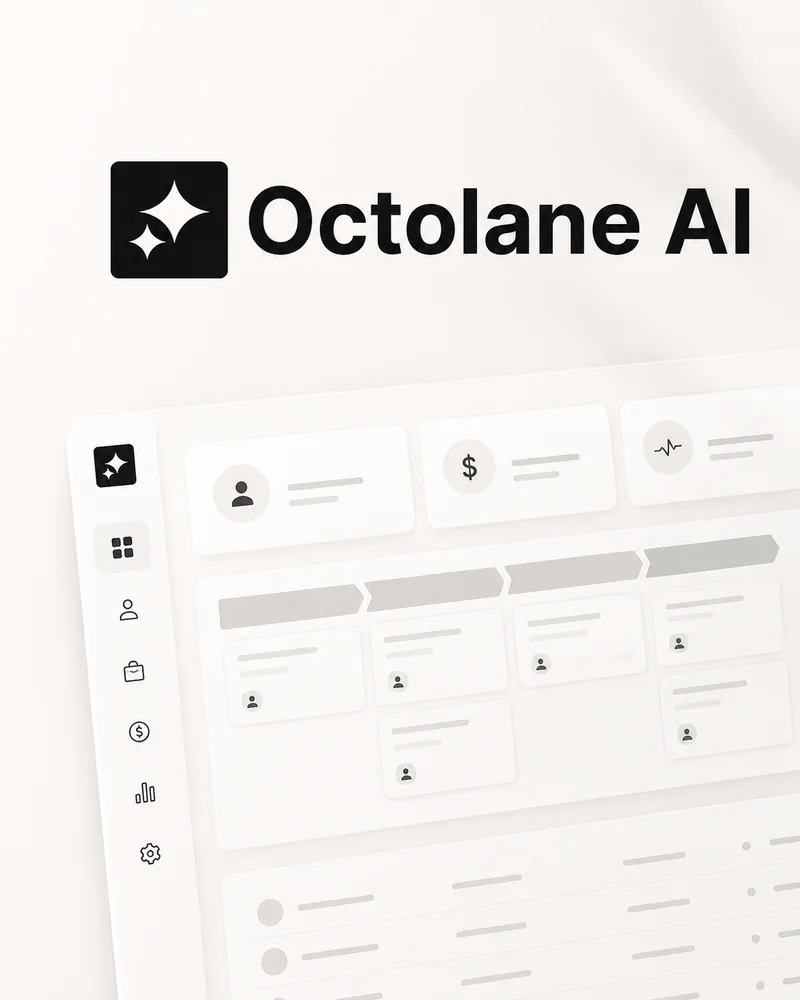
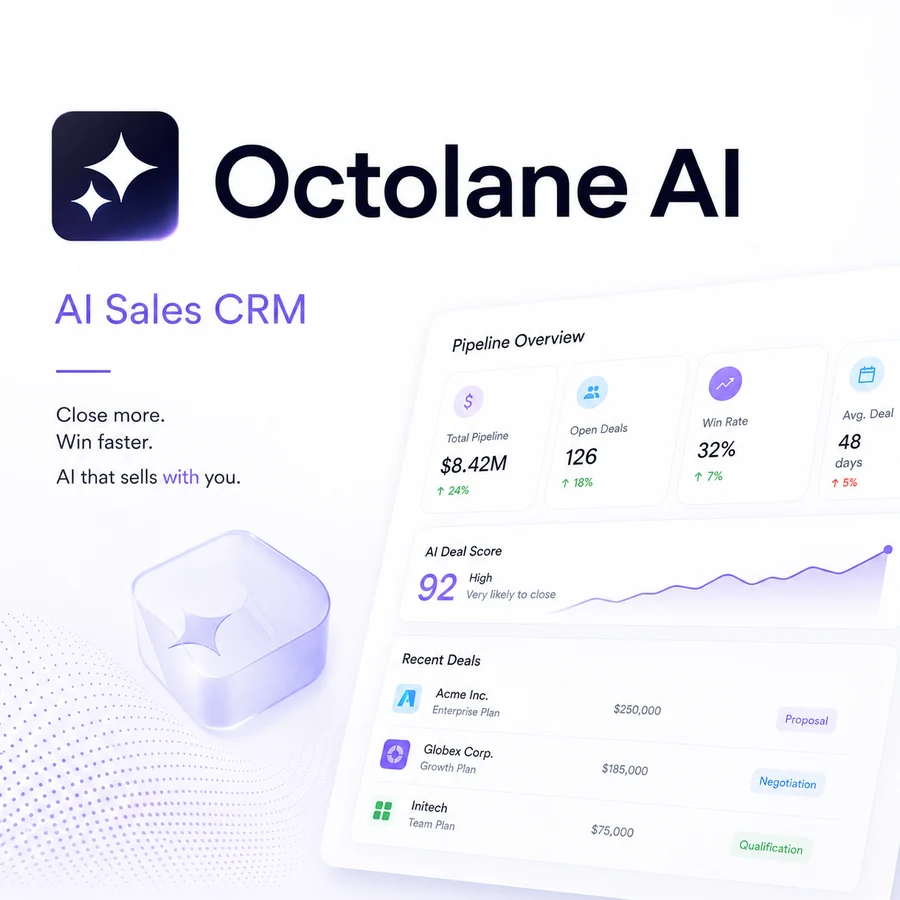
Add card covers for Tomo, Turbo AI, Jailbreak, Octolane AI
Completes the branded 900x900 cover set alongside the earlier six. Cropped
per-image rather than uniformly: Tomo needed 18px to clear its rounded-corner
arc, Turbo and Jailbreak were already square full-bleed so were left uncropped,
Octolane took 14px. All switched to cover/center with dark fallback colors
matching each artwork.

diff --git a/index.html b/index.html
@@ -890,12 +890,12 @@
   .card-img--effigov { --img: url('assets/company/effigov-card.webp'); --img-size: cover; --img-position: center; --img-bg: #FAFCFE; }
   .card-img--farmshots { --img: url('assets/company/farmshots-card.webp'); }
   .card-img--ivella { --img: url('assets/company/ivella-card.webp'); --img-position: center -34px; --img-bg: #090611; }
-  .card-img--octolane { --img: url('assets/company/octolane-card.webp'); }
+  .card-img--octolane { --img: url('assets/company/octolane-card.webp'); --img-size: cover; --img-position: center; --img-bg: #FCFCFE; }
   .card-img--gradient { --img: url('assets/company/gradient-health-card.webp'); --img-size: cover; --img-position: center; --img-bg: #FCFCFE; }
   .card-img--nebula { --img: url('assets/company/nebula-card.webp'); --img-position: center -46px; --img-bg: #080A17; }
-  .card-img--turbo { --img: url('assets/company/turbo-card.webp'); --img-bg: #F3F0EB; }
-  .card-img--tomo { --img: url('assets/company/tomo-card.webp'); --img-bg: #F4F0E6; }
-  .card-img--jailbreak { --img: url('assets/company/jailbreak-card.webp'); --img-position: center -34px; --img-bg: #020A19; }
+  .card-img--turbo { --img: url('assets/company/turbo-card.webp'); --img-size: cover; --img-position: center; --img-bg: #1A1140; }
+  .card-img--tomo { --img: url('assets/company/tomo-card.webp'); --img-size: cover; --img-position: center; --img-bg: #9EBEC0; }
+  .card-img--jailbreak { --img: url('assets/company/jailbreak-card.webp'); --img-size: cover; --img-position: center; --img-bg: #030E58; }
   .card-img--lemon-slice { --img: url('assets/company/lemon-slice-card.jpg'); --img-size: cover; --img-position: center; --img-bg: #f8f5ec; }
   .card-img--eqore { --img: url('assets/company/eqore-card.jpg'); --img-size: cover; --img-position: center; --img-bg: #eef6fb; }
   .card-img--throne-science { --img: url('assets/company/throne-science-card.jpg'); --img-size: cover; --img-position: center; --img-bg: #f8f5f1; }
